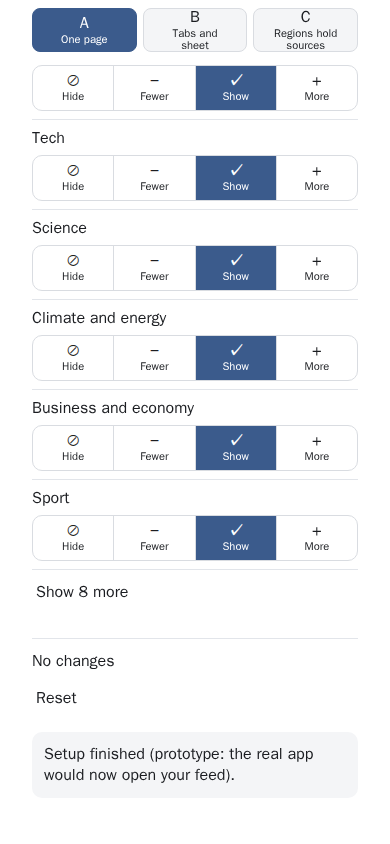
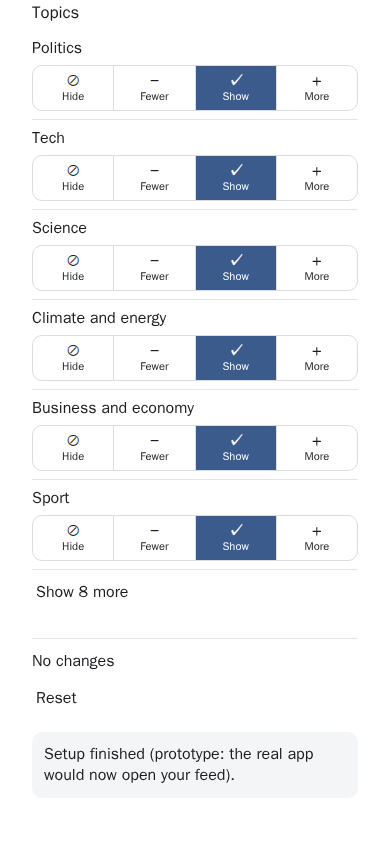
refactor(client): cut the lab to variant a and the first-run flow for part 1 (#346)
Variants b and c remain in 896fbfb and 361c2c3 for part 2.

Changed region(s): [[0.0615, 0.0, 0.3692, 0.0616], [0.7077, 0.0, 0.8615, 0.0616], [0.4308, 0.0, 0.5538, 0.0616]]

diff --git a/client/src/lab/PreferencesLab.tsx b/client/src/lab/PreferencesLab.tsx
@@ -1,32 +1,18 @@
 import { useState } from "preact/hooks";
 import "./lab.css";
 import { MORE_TOPICS, KINDS, REGIONS, SOURCES, STARTER_TOPICS, type MockSource } from "./mock-catalogue";
-import { iconFor, PreferenceControl, type PreferenceState } from "./PreferenceControl";
+import { PreferenceControl, type PreferenceState } from "./PreferenceControl";
 
 // #332: hidden prototype of the preferences screen on mock data. State lives in memory only.
 
-type Variant = "a" | "b" | "c";
 type Prefs = Record<string, PreferenceState>;
-type Tab = "sources" | "regions" | "topics";
 
 const NOTE =
   "Hide works on every tab. Fewer and More change the order in Feed and Longer; News stays newest first.";
 
-const EXPLAIN: Record<PreferenceState, string> = {
-  hide: "Hide: never shown on any tab.",
-  fewer: "Fewer: pushed down the order in Feed and Longer.",
-  show: "Show: the normal order.",
-  more: "More: pulled up the order in Feed and Longer.",
-};
-
 const sKey = (id: string) => `source:${id}`;
 const rKey = (r: string) => `region:${r}`;
 const tKey = (t: string) => `topic:${t}`;
-
-function initialVariant(search: string): Variant {
-  const v = new URLSearchParams(search).get("v");
-  return v === "b" || v === "c" ? v : "a";
-}
 
 /** "2 hidden, 1 more, 1 fewer", or "No changes" when everything is on Show. */
 export function summarise(prefs: Prefs): string {
@@ -119,132 +105,10 @@ function TopicList({ ctx }: { ctx: Ctx }) {
   );
 }
 
-function VariantB({ ctx }: { ctx: Ctx }) {
-  const [tab, setTab] = useState<Tab>("sources");
-  const [sheet, setSheet] = useState<{ k: string; name: string } | null>(null);
-  const row = (k: string, name: string) => (
-    <li key={k}>
-      <button type="button" class="lab-tap" onClick={() => setSheet({ k, name })}>
-        <span class="lab-name">{name}</span>
-        <span class={`lab-state pref-${ctx.get(k)}`} aria-label={`currently ${ctx.get(k)}`}>
-          {iconFor(ctx.get(k))}
-        </span>
-      </button>
-    </li>
-  );
-  const topics = ctx.open.has("topics") ? [...STARTER_TOPICS, ...MORE_TOPICS] : STARTER_TOPICS;
-  return (
-    <>
-      <div class="lab-tabs" role="tablist">
-        {(["sources", "regions", "topics"] as const).map((t) => (
-          <button
-            key={t}
-            type="button"
-            role="tab"
-            aria-selected={tab === t}
-            onClick={() => setTab(t)}
-          >
-            {t[0]?.toUpperCase()}
-            {t.slice(1)}
-          </button>
-        ))}
-      </div>
-      {tab === "sources" ? (
-        <>
-          <ul class="lab-list">{starters.map((s) => row(sKey(s.id), s.name))}</ul>
-          {ctx.open.has("sources") ? (
-            <ul class="lab-list">{groupedByKind(others, (s) => row(sKey(s.id), s.name))}</ul>
-          ) : null}
-          <MoreButton ctx={ctx} id="sources" count={others.length} />
-        </>
-      ) : null}
-      {tab === "regions" ? <ul class="lab-list">{REGIONS.map((r) => row(rKey(r), r))}</ul> : null}
-      {tab === "topics" ? (
-        <>
-          <ul class="lab-list">{topics.map((t) => row(tKey(t), t))}</ul>
-          <MoreButton ctx={ctx} id="topics" count={MORE_TOPICS.length} />
-        </>
-      ) : null}
-      {sheet ? (
-        <div class="lab-backdrop" onClick={() => setSheet(null)}>
-          <div
-            class="lab-sheet"
-            role="dialog"
-            aria-modal="true"
-            aria-label={sheet.name}
-            onClick={(e) => e.stopPropagation()}
-          >
-            <h3>{sheet.name}</h3>
-            <PreferenceControl
-              label={sheet.name}
-              value={ctx.get(sheet.k)}
-              onChange={(v) => {
-                ctx.set(sheet.k, v);
-                setSheet(null);
-              }}
-            />
-            <p class="lab-explain">{EXPLAIN[ctx.get(sheet.k)]}</p>
-            <button type="button" class="lab-link" onClick={() => setSheet(null)}>
-              Close
-            </button>
-          </div>
-        </div>
-      ) : null}
-    </>
-  );
-}
-
-function RegionGroup({ ctx, name, members }: { ctx: Ctx; name: string; members: MockSource[] }) {
-  const id = `group:${name}`;
-  const first = members.filter((s) => s.starter);
-  const rest = members.filter((s) => !s.starter);
-  const shown = ctx.open.has(id) ? members : first;
-  return (
-    <section class="lab-group">
-      {name === "Everywhere" ? (
-        <h2>Everywhere</h2>
-      ) : (
-        <div class="lab-group-head">
-          <h2>{name}</h2>
-          <PreferenceControl label={name} value={ctx.get(rKey(name))} onChange={(v) => ctx.set(rKey(name), v)} />
-        </div>
-      )}
-      <ul class="lab-list lab-indent">
-        {shown.map((s) => (
-          <Row key={s.id} ctx={ctx} k={sKey(s.id)} name={s.name} />
-        ))}
-      </ul>
-      {rest.length > 0 ? <MoreButton ctx={ctx} id={id} count={rest.length} /> : null}
-    </section>
-  );
-}
-
-function VariantC({ ctx }: { ctx: Ctx }) {
-  return (
-    <>
-      <section>
-        <h2>Topics</h2>
-        <TopicList ctx={ctx} />
-      </section>
-      {REGIONS.map((r) => (
-        <RegionGroup key={r} ctx={ctx} name={r} members={SOURCES.filter((s) => s.region === r)} />
-      ))}
-      <RegionGroup ctx={ctx} name="Everywhere" members={SOURCES.filter((s) => !s.region)} />
-    </>
-  );
-}
-
-const VARIANTS: { id: Variant; title: string }[] = [
-  { id: "a", title: "One page" },
-  { id: "b", title: "Tabs and sheet" },
-  { id: "c", title: "Regions hold sources" },
-];
-
-/** The prototype screen at /lab/preferences. `?v=a|b|c` picks the layout, `?setup=1` the first-run flow. */
+/** The prototype screen at /lab/preferences. `?setup=1` the first-run flow. */
 export function PreferencesLab() {
   const params = new URLSearchParams(location.search);
   const setup = params.get("setup") === "1";
-  const [variant, setVariant] = useState<Variant>(() => initialVariant(location.search));
   const [prefs, setPrefs] = useState<Prefs>({});
   const [open, setOpen] = useState<Set<string>>(new Set());
   const [started, setStarted] = useState(false);
@@ -261,33 +125,8 @@ export function PreferencesLab() {
       }),
   };
 
-  const choose = (v: Variant) => {
-    setVariant(v);
-    try {
-      const p = new URLSearchParams(location.search);
-      p.set("v", v);
-      history.replaceState(null, "", `${location.pathname}?${p.toString()}`);
-    } catch {
-      // The address bar is a convenience; the variant still switches.
-    }
-  };
-
   return (
     <main class="lab">
-      <nav class="lab-switch" aria-label="Layout variant">
-        {VARIANTS.map((v) => (
-          <button
-            key={v.id}
-            type="button"
-            aria-pressed={variant === v.id}
-            aria-label={`${v.id.toUpperCase()} ${v.title}`}
-            onClick={() => choose(v.id)}
-          >
-            {v.id.toUpperCase()}
-            <small>{` ${v.title}`}</small>
-          </button>
-        ))}
-      </nav>
       <p class="lab-banner">Prototype on made-up data. Nothing is saved.</p>
       {setup ? (
         <header class="lab-welcome">
@@ -298,9 +137,7 @@ export function PreferencesLab() {
         <h1>Preferences</h1>
       )}
       <p class="lab-note">{NOTE}</p>
-      {variant === "a" ? <VariantA ctx={ctx} /> : null}
-      {variant === "b" ? <VariantB ctx={ctx} /> : null}
-      {variant === "c" ? <VariantC ctx={ctx} /> : null}
+      <VariantA ctx={ctx} />
       <footer class="lab-foot">
         <p class="lab-summary">{summarise(prefs)}</p>
         <button

diff --git a/client/src/lab/PreferencesLab.test.tsx b/client/src/lab/PreferencesLab.test.tsx
@@ -71,20 +71,14 @@ function clickable(text: string): HTMLElement {
 }
 
 describe("/lab/preferences", () => {
-  it("opens on variant a with a switcher for a, b and c and no tab bar", async () => {
+  it("opens with no tab bar and the Sport control", async () => {
     await open("/lab/preferences");
     expect(root.querySelector('nav[aria-label="Sections"]')).toBeNull();
-    for (const v of ["a", "b", "c"]) {
-      const hit = [...root.querySelectorAll<HTMLElement>("a,button")].some((el) =>
-        new RegExp(`^(variant )?${v}\\b`, "i").test((el.textContent || el.getAttribute("aria-label") || "").trim()),
-      );
-      expect(hit, `switcher entry ${v}`).toBe(true);
-    }
     expect(group("Sport")).toBeDefined();
   });
 
-  it.each(["a", "b", "c"])("variant %s shows the Hide / Fewer / More note", async (v) => {
-    await open("/lab/preferences", `?v=${v}`);
+  it("shows the Hide / Fewer / More note", async () => {
+    await open("/lab/preferences");
     expect(root.textContent).toContain(NOTE);
   });
 
@@ -108,34 +102,6 @@ describe("/lab/preferences", () => {
     pick(fresh, "more");
     await settle();
     expect(selected(fresh)).toMatch(/more/i);
-  });
-
-  it("variant b: tapping BBC News opens a sheet; choosing More closes it and the row shows +", async () => {
-    await open("/lab/preferences", "?v=b");
-    clickable("BBC News").click();
-    await settle();
-    const sheet = root.querySelector<HTMLElement>('[role="dialog"]');
-    expect(sheet).not.toBeNull();
-    pick(sheet?.querySelector<HTMLElement>('[role="radiogroup"]') as HTMLElement, "more");
-    await settle();
-    expect(root.querySelector('[role="dialog"]')).toBeNull();
-    expect(clickable("BBC News").textContent).toContain("+");
-  });
-
-  it("variant c: UK set to Fewer leaves the sources beneath it on Show", async () => {
-    await open("/lab/preferences", "?v=c");
-    pick(group("UK"), "fewer");
-    await settle();
-    expect(selected(group("UK"))).toMatch(/fewer/i);
-    const regions = ["UK", "Europe", "US", "World"];
-    const sources = groups().filter((g) => !regions.includes(g.getAttribute("aria-label") ?? ""));
-    expect(sources.length).toBeGreaterThan(0);
-    for (const g of sources) {
-      const label = g.getAttribute("aria-label") ?? "";
-      if (label === "Everywhere") continue;
-      // Topic and source controls are untouched by the region change.
-      expect(selected(g), label).toMatch(/show/i);
-    }
   });
 
   it("?setup=1 shows the welcome and the starter set, and Start reading confirms", async () => {

diff --git a/client/src/lab/lab.css b/client/src/lab/lab.css
@@ -13,13 +13,6 @@
 .lab h4 { margin: 12px 0 2px; font-size: var(--fs-meta); color: var(--muted); text-transform: uppercase; }
 .lab button { font: inherit; color: inherit; }
 
-.lab-switch { display: flex; gap: 6px; position: sticky; top: 0; padding: 8px 0; background: var(--bg); z-index: 2; }
-.lab-switch button {
-  flex: 1; min-height: 44px; border: 1px solid var(--border); border-radius: 8px;
-  background: var(--surface); font-weight: 600; line-height: 1.1;
-}
-.lab-switch button[aria-pressed="true"] { border-color: var(--accent); background: var(--accent); color: var(--bg); }
-.lab-switch small { display: block; font-weight: 400; font-size: 0.7rem; }
 .lab-banner { margin: 0; font-size: var(--fs-meta); color: var(--muted); }
 .lab-note { font-size: var(--fs-meta); color: var(--text-secondary); background: var(--surface); padding: 8px 10px; border-radius: 8px; }
 
@@ -44,25 +37,8 @@
 .lab-more, .lab-link {
   min-height: 44px; padding: 0 4px; border: 0; background: none; color: var(--link); cursor: pointer; text-align: left;
 }
-.lab-tabs { display: flex; border-bottom: 1px solid var(--divider); margin: 8px 0; }
-.lab-tabs button { flex: 1; min-height: 44px; border: 0; background: none; border-bottom: 3px solid transparent; }
-.lab-tabs button[aria-selected="true"] { border-bottom-color: var(--accent); font-weight: 600; }
-.lab-tap {
-  width: 100%; min-height: 48px; display: flex; align-items: center; justify-content: space-between;
-  border: 0; border-bottom: 1px solid var(--divider); background: none; text-align: left; cursor: pointer;
-}
-.lab-tap .lab-name { margin: 0; }
-.lab-state { width: 2rem; text-align: center; font-size: 1.1rem; color: var(--accent); }
-.lab-state.pref-hide { color: var(--muted); }
 
-.lab-backdrop { position: fixed; inset: 0; background: rgb(0 0 0 / 0.45); display: flex; align-items: flex-end; z-index: 5; }
-.lab-sheet {
-  width: 100%; max-width: 40rem; margin: 0 auto; box-sizing: border-box; padding: 16px;
-  background: var(--bg); border-radius: 16px 16px 0 0; border: 1px solid var(--border);
-}
-.lab-explain { font-size: var(--fs-meta); color: var(--text-secondary); }
 
-.lab-group-head h2 { margin-bottom: 6px; }
 .lab-foot { margin-top: 24px; border-top: 1px solid var(--divider); padding-top: 8px; }
 .lab-summary { font-weight: 600; margin: 4px 0; }
 .lab-start {

diff --git a/client/e2e/preferences-lab.spec.ts b/client/e2e/preferences-lab.spec.ts
@@ -20,18 +20,6 @@ for (const scheme of ["light", "dark"] as const) {
     await page.getByText("Long reads").scrollIntoViewIfNeeded();
     await shot(page, "variant-a-expanded", scheme);
 
-    await page.goto("/lab/preferences?v=b");
-    await shot(page, "variant-b", scheme);
-    await page.getByRole("button", { name: /BBC News/ }).click();
-    await expect(page.getByRole("dialog")).toBeVisible();
-    await shot(page, "variant-b-sheet", scheme);
-
-    await page.goto("/lab/preferences?v=c");
-    await page.getByRole("radiogroup", { name: "UK" }).getByRole("radio", { name: "Fewer" }).click();
-    await page.getByRole("radiogroup", { name: "Sport" }).getByRole("radio", { name: "Hide" }).click();
-    await page.getByRole("heading", { name: "UK" }).scrollIntoViewIfNeeded();
-    await shot(page, "variant-c", scheme);
-
     await page.goto("/lab/preferences?setup=1");
     await shot(page, "setup", scheme);
     await page.getByRole("button", { name: "Start reading" }).click();
